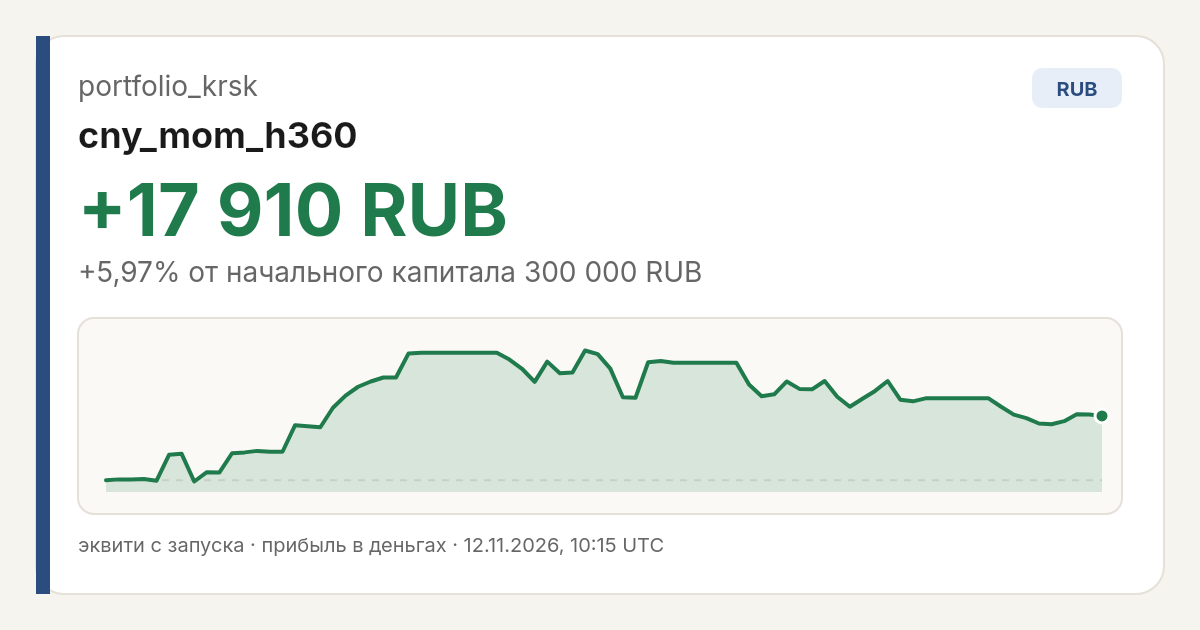
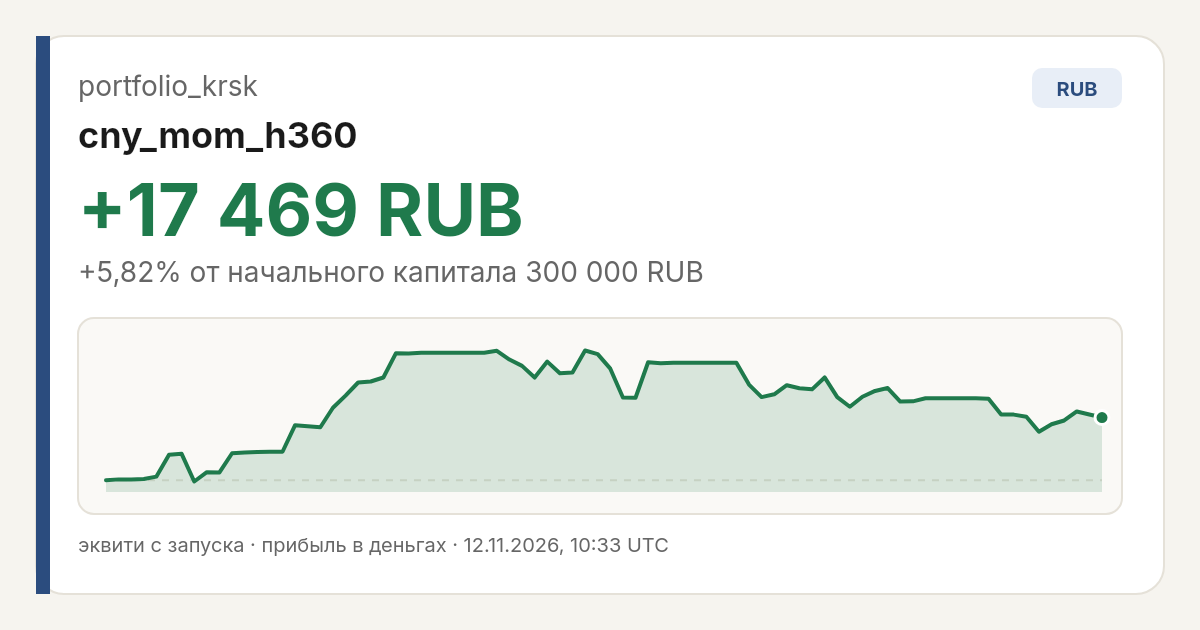
sync equity data 2026-11-12T10:33:51Z

diff --git a/share.html b/share.html
@@ -4,23 +4,23 @@
     <meta charset="UTF-8" />
     <meta name="viewport" content="width=device-width, initial-scale=1.0" />
     <title>portfolio_krsk - cny_mom_h360</title>
-    <meta name="description" content="cny_mom_h360: +17 910 RUB (+5,97%) с запуска. Лидер обложки выбран по доходности в процентах от начального капитала; суммы в разных валютах не сравниваются." />
+    <meta name="description" content="cny_mom_h360: +17 469 RUB (+5,82%) с запуска. Лидер обложки выбран по доходности в процентах от начального капитала; суммы в разных валютах не сравниваются." />
     <meta property="og:title" content="portfolio_krsk - cny_mom_h360" />
-    <meta property="og:description" content="cny_mom_h360: +17 910 RUB (+5,97%) с запуска. Лидер обложки выбран по доходности в процентах от начального капитала; суммы в разных валютах не сравниваются." />
+    <meta property="og:description" content="cny_mom_h360: +17 469 RUB (+5,82%) с запуска. Лидер обложки выбран по доходности в процентах от начального капитала; суммы в разных валютах не сравниваются." />
     <meta property="og:url" content="https://portfolio-krsk.vercel.app/" />
     <meta property="og:site_name" content="portfolio_krsk" />
     <meta property="og:locale" content="ru_RU" />
     <meta property="og:type" content="website" />
-    <meta property="og:image" content="https://varshavskiy1-beep.github.io/portfolio-krsk/og-cover.jpg?v=202611121015" />
-    <meta property="og:image:secure_url" content="https://varshavskiy1-beep.github.io/portfolio-krsk/og-cover.jpg?v=202611121015" />
+    <meta property="og:image" content="https://varshavskiy1-beep.github.io/portfolio-krsk/og-cover.jpg?v=202611121033" />
+    <meta property="og:image:secure_url" content="https://varshavskiy1-beep.github.io/portfolio-krsk/og-cover.jpg?v=202611121033" />
     <meta property="og:image:type" content="image/jpeg" />
     <meta property="og:image:width" content="1200" />
     <meta property="og:image:height" content="630" />
-    <link rel="image_src" href="https://varshavskiy1-beep.github.io/portfolio-krsk/og-cover.jpg?v=202611121015" />
+    <link rel="image_src" href="https://varshavskiy1-beep.github.io/portfolio-krsk/og-cover.jpg?v=202611121033" />
     <meta name="twitter:card" content="summary_large_image" />
     <meta name="twitter:title" content="portfolio_krsk - cny_mom_h360" />
-    <meta name="twitter:description" content="cny_mom_h360: +17 910 RUB (+5,97%) с запуска. Лидер обложки выбран по доходности в процентах от начального капитала; суммы в разных валютах не сравниваются." />
-    <meta name="twitter:image" content="https://varshavskiy1-beep.github.io/portfolio-krsk/og-cover.jpg?v=202611121015" />
+    <meta name="twitter:description" content="cny_mom_h360: +17 469 RUB (+5,82%) с запуска. Лидер обложки выбран по доходности в процентах от начального капитала; суммы в разных валютах не сравниваются." />
+    <meta name="twitter:image" content="https://varshavskiy1-beep.github.io/portfolio-krsk/og-cover.jpg?v=202611121033" />
     <meta http-equiv="refresh" content="0; url=/" />
     <script>location.replace("/")</script>
     <style>
@@ -49,9 +49,9 @@
   </head>
   <body>
     <main>
-      <img src="https://varshavskiy1-beep.github.io/portfolio-krsk/og-cover.jpg?v=202611121015" alt="portfolio_krsk - cny_mom_h360" width="1200" height="630" />
+      <img src="https://varshavskiy1-beep.github.io/portfolio-krsk/og-cover.jpg?v=202611121033" alt="portfolio_krsk - cny_mom_h360" width="1200" height="630" />
       <noscript>
-        <p>cny_mom_h360: +17 910 RUB (+5,97%) с запуска. Лидер обложки выбран по доходности в процентах от начального капитала; суммы в разных валютах не сравниваются.</p>
+        <p>cny_mom_h360: +17 469 RUB (+5,82%) с запуска. Лидер обложки выбран по доходности в процентах от начального капитала; суммы в разных валютах не сравниваются.</p>
         <p><a href="/">Открыть кабинет portfolio_krsk</a></p>
       </noscript>
     </main>
